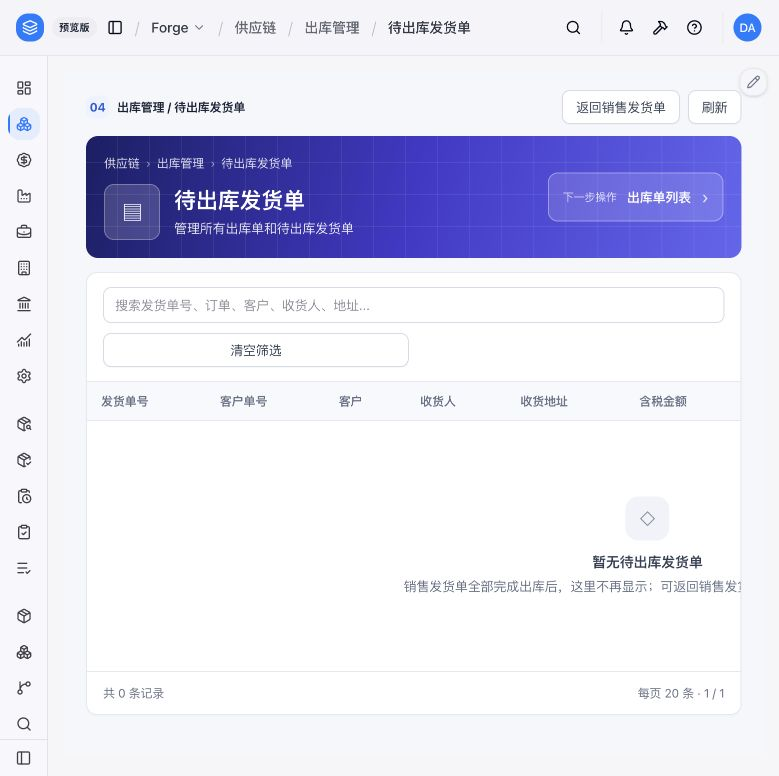
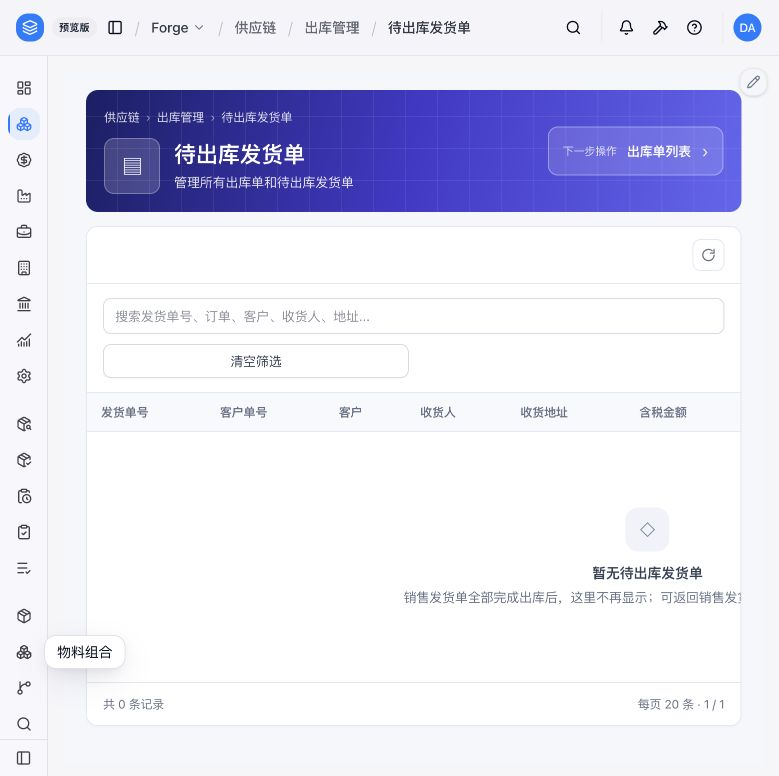
feat(forge): 待出库发货单 remove phase bar; record 库存总览 rebuild and 22-page smoke audit

diff --git a/apps/forge-objectstack/src/pages/pending-outbound-shipments.page.ts b/apps/forge-objectstack/src/pages/pending-outbound-shipments.page.ts
@@ -19,7 +19,7 @@ function App(){
   async function invoke(d){setBusy(true);try{await request('/actions/forge_sales_shipment/sales_shipment_create_outbound/'+d.row.id,{method:'POST',body:JSON.stringify({params:{code:d.code.trim(),warehouse_id:d.warehouse_id,outbound_on:d.date,quantity:Number(d.quantity),customer_pickup:!!d.customer_pickup,remarks:d.remarks||''}})});setDialog(null);setToast('销售出库单已创建');await load()}catch(e){setDialog(x=>x?({...x,error:String(e.message||e)}):x)}finally{setBusy(false)}}
   function confirm(){const d=dialog;if(!d)return;if(d.step!=='confirm')return setDialog({...d,step:'confirm',error:''});if(!d.warehouse_id||!d.code.trim()||!d.date||!(Number(d.quantity)>0))return setDialog({...d,error:'请填写出库单号、出库仓库、出库日期和数量'});return invoke(d)}
   if(state.loading)return <div className="forge-product forge-pending-outbound"><style>{css}</style><ForgeLoading label="加载待出库发货单"/></div>;
-  return <div className="forge-product forge-pending-outbound"><style>{css}</style><div className="fp-shell"><div className="fp-list-context"><div className="fp-phase"><span className="fp-phase-index">04</span><strong>出库管理 / 待出库发货单</strong></div><div className="fp-toolbar"><button className="fp-button" onClick={load}>刷新</button></div></div><ForgeHero section="供应链 / 出库管理 / 待出库发货单" title="待出库发货单" description="管理所有出库单和待出库发货单" icon="▤" tone="indigo" art="flow" next={{label:"出库单列表",href:forgeBase+'/page/page_sales_outbound_list',title:"下一步操作 · 出库单列表"}}/>{state.error&&<ForgeNotice tone="error" onClose={()=>setState(s=>({...s,error:''}))}>{state.error}</ForgeNotice>}<section className="fp-card"><div className="fp-filterbar"><div className="fp-search"><input className="fp-input" aria-label="搜索待出库发货单" placeholder="搜索发货单号、订单、客户、收货人、地址..." value={query} onChange={e=>setQuery(e.target.value)}/></div><button className="fp-button" onClick={()=>setQuery('')}>清空筛选</button></div><div className="fp-table-wrap"><table className="fp-table"><thead><tr><th>发货单号</th><th>客户单号</th><th>客户</th><th>收货人</th><th>收货地址</th><th>含税金额</th><th>出库进度</th><th>状态</th><th>日期</th><th>负责人</th><th>操作</th></tr></thead><tbody>{rows.map(s=>{const line=lineOf(s.id),o=order(line?.order_id),outs=outbounds(s.id),remain=Math.max(0,Number(s.total_quantity||0)-Number(s.outbound_quantity||0));return <tr key={s.id}><td><button className="fp-link-button" onClick={()=>window.location.href=forgeBase+'/forge_sales_shipment/record/'+s.id}>{s.code}</button><div className="fp-secondary">{o?.code||'—'}</div></td><td>{o?.customer_po_number||'—'}</td><td>{customer(s.customer_id)}</td><td>{s.recipient||contact(s.contact_id)}</td><td>{s.delivery_address||'—'}</td><td className="fp-number">{money(s.total_amount)}</td><td>{progress(s)}</td><td><ForgeStatus value={s.status} label={s.status==='partially_outbounded'?'部分出库':'待发货'}/></td><td>{s.shipment_on||'—'}</td><td>{user(s.responsible_id)}</td><td><div className="fp-toolbar"><button className="fp-button small primary" disabled={remain<=0} onClick={()=>openOutbound(s)}>创建出库单</button><button className="fp-button small" onClick={()=>window.location.href=forgeBase+'/forge_sales_shipment/record/'+s.id}>查看</button></div></td></tr>})}{!rows.length&&<tr><td colSpan="11" className="fp-empty-cell"><ForgeEmpty title="暂无待出库发货单" description="销售发货单全部完成出库后，这里不再显示；可返回销售发货单创建新的待出库单据。"/></td></tr>}</tbody></table></div><div className="fp-pagination"><span>共 {rows.length} 条记录</span><span>每页 20 条 · 1 / 1</span></div></section></div>{dialog&&<ForgeDialog open title={dialog.step==='confirm'?'确认创建销售出库单':'创建出库单'} subtitle={dialog.row?.code+' · '+customer(dialog.row?.customer_id)} error={dialog.error} busy={busy} confirmLabel={dialog.step==='confirm'?'确认提交':'下一步'} onCancel={()=>setDialog(null)} onConfirm={confirm}>{dialog.step==='confirm'&&<div className="fp-dialog-impact">请确认发货单、仓库、数量和库存扣减影响无误；确认后将创建销售出库单并回写发货进度。</div>}{dialog.step!=='confirm'&&<><div className="fp-form-grid"><div className="fp-field"><label>出库单号 *</label><input className="fp-input" aria-label="出库单号" value={dialog.code} onChange={e=>setDialog({...dialog,code:e.target.value})}/></div><div className="fp-field"><label>出库仓库 *</label><ForgeSelect label="出库仓库" value={dialog.warehouse_id} onChange={v=>setDialog({...dialog,warehouse_id:v})} options={state.warehouses.map(w=>({value:w.id,label:w.code+' · '+w.name}))} placeholder="请选择仓库"/></div><div className="fp-field"><label>出库日期 *</label><ForgeDateInput className="fp-input" aria-label="出库日期" value={dialog.date} onChange={e=>setDialog({...dialog,date:e.target.value})}/></div><div className="fp-field"><label>出库数量 *</label><input className="fp-input" aria-label="出库数量" type="number" value={dialog.quantity} onChange={e=>setDialog({...dialog,quantity:e.target.value})}/></div></div><label className="fp-checkbox"><input type="checkbox" checked={dialog.customer_pickup} onChange={e=>setDialog({...dialog,customer_pickup:e.target.checked})}/>客户自取</label><div className="fp-field"><label>备注</label><textarea className="fp-textarea" aria-label="出库备注" value={dialog.remarks} onChange={e=>setDialog({...dialog,remarks:e.target.value})}/></div><div className="inventory-note">当前动作会读取所选仓库的真实库存余额。库存不足、发货单状态变化或数量超过剩余待出库数量时，系统会阻止创建出库单。</div></>}</ForgeDialog>}{toast&&<div className="fp-toast" role="status">{toast}</div>}</div>}
+  return <div className="forge-product forge-pending-outbound"><style>{css}</style><div className="fp-shell"><ForgeHero section="供应链 / 出库管理 / 待出库发货单" title="待出库发货单" description="管理所有出库单和待出库发货单" icon="▤" tone="indigo" art="flow" next={{label:"出库单列表",href:forgeBase+'/page/page_sales_outbound_list',title:"下一步操作 · 出库单列表"}}/>{state.error&&<ForgeNotice tone="error" onClose={()=>setState(s=>({...s,error:''}))}>{state.error}</ForgeNotice>}<section className="fp-card"><div className="fp-card-toolbar"><span className="fp-grow"/><button className="fp-icon-button" aria-label="刷新" title="刷新" onClick={load}><svg viewBox="0 0 24 24" fill="none" stroke="currentColor" strokeWidth="2" strokeLinecap="round" strokeLinejoin="round"><path d="M21 12a9 9 0 1 1-3-6.7"/><path d="M21 3v6h-6"/></svg></button></div><div className="fp-filterbar"><div className="fp-search"><input className="fp-input" aria-label="搜索待出库发货单" placeholder="搜索发货单号、订单、客户、收货人、地址..." value={query} onChange={e=>setQuery(e.target.value)}/></div><button className="fp-button" onClick={()=>setQuery('')}>清空筛选</button></div><div className="fp-table-wrap"><table className="fp-table"><thead><tr><th>发货单号</th><th>客户单号</th><th>客户</th><th>收货人</th><th>收货地址</th><th>含税金额</th><th>出库进度</th><th>状态</th><th>日期</th><th>负责人</th><th>操作</th></tr></thead><tbody>{rows.map(s=>{const line=lineOf(s.id),o=order(line?.order_id),outs=outbounds(s.id),remain=Math.max(0,Number(s.total_quantity||0)-Number(s.outbound_quantity||0));return <tr key={s.id}><td><button className="fp-link-button" onClick={()=>window.location.href=forgeBase+'/forge_sales_shipment/record/'+s.id}>{s.code}</button><div className="fp-secondary">{o?.code||'—'}</div></td><td>{o?.customer_po_number||'—'}</td><td>{customer(s.customer_id)}</td><td>{s.recipient||contact(s.contact_id)}</td><td>{s.delivery_address||'—'}</td><td className="fp-number">{money(s.total_amount)}</td><td>{progress(s)}</td><td><ForgeStatus value={s.status} label={s.status==='partially_outbounded'?'部分出库':'待发货'}/></td><td>{s.shipment_on||'—'}</td><td>{user(s.responsible_id)}</td><td><div className="fp-toolbar"><button className="fp-button small primary" disabled={remain<=0} onClick={()=>openOutbound(s)}>创建出库单</button><button className="fp-button small" onClick={()=>window.location.href=forgeBase+'/forge_sales_shipment/record/'+s.id}>查看</button></div></td></tr>})}{!rows.length&&<tr><td colSpan="11" className="fp-empty-cell"><ForgeEmpty title="暂无待出库发货单" description="销售发货单全部完成出库后，这里不再显示；可返回销售发货单创建新的待出库单据。"/></td></tr>}</tbody></table></div><div className="fp-pagination"><span>共 {rows.length} 条记录</span><span>每页 20 条 · 1 / 1</span></div></section></div>{dialog&&<ForgeDialog open title={dialog.step==='confirm'?'确认创建销售出库单':'创建出库单'} subtitle={dialog.row?.code+' · '+customer(dialog.row?.customer_id)} error={dialog.error} busy={busy} confirmLabel={dialog.step==='confirm'?'确认提交':'下一步'} onCancel={()=>setDialog(null)} onConfirm={confirm}>{dialog.step==='confirm'&&<div className="fp-dialog-impact">请确认发货单、仓库、数量和库存扣减影响无误；确认后将创建销售出库单并回写发货进度。</div>}{dialog.step!=='confirm'&&<><div className="fp-form-grid"><div className="fp-field"><label>出库单号 *</label><input className="fp-input" aria-label="出库单号" value={dialog.code} onChange={e=>setDialog({...dialog,code:e.target.value})}/></div><div className="fp-field"><label>出库仓库 *</label><ForgeSelect label="出库仓库" value={dialog.warehouse_id} onChange={v=>setDialog({...dialog,warehouse_id:v})} options={state.warehouses.map(w=>({value:w.id,label:w.code+' · '+w.name}))} placeholder="请选择仓库"/></div><div className="fp-field"><label>出库日期 *</label><ForgeDateInput className="fp-input" aria-label="出库日期" value={dialog.date} onChange={e=>setDialog({...dialog,date:e.target.value})}/></div><div className="fp-field"><label>出库数量 *</label><input className="fp-input" aria-label="出库数量" type="number" value={dialog.quantity} onChange={e=>setDialog({...dialog,quantity:e.target.value})}/></div></div><label className="fp-checkbox"><input type="checkbox" checked={dialog.customer_pickup} onChange={e=>setDialog({...dialog,customer_pickup:e.target.checked})}/>客户自取</label><div className="fp-field"><label>备注</label><textarea className="fp-textarea" aria-label="出库备注" value={dialog.remarks} onChange={e=>setDialog({...dialog,remarks:e.target.value})}/></div><div className="inventory-note">当前动作会读取所选仓库的真实库存余额。库存不足、发货单状态变化或数量超过剩余待出库数量时，系统会阻止创建出库单。</div></>}</ForgeDialog>}{toast&&<div className="fp-toast" role="status">{toast}</div>}</div>}
 export default App;
 ${forgeProductUiRuntime}`;
 

diff --git a/docs/evidence/risemap-supply-chain-data-readiness-20260917.md b/docs/evidence/risemap-supply-chain-data-readiness-20260917.md
@@ -631,3 +631,28 @@ RISEMAP 检验规则页实测到明确的批量动作：工具条有「批量启
 | SN码管理 | #/供应商序列号/产品名称/入库单号/批次号/供应商/出库状态/出库单号/操作，卡片首行右侧刷新图标 | 列一致；刷新是文字按钮 | **已改**：刷新改为卡片首行右侧图标按钮 |
 
 改后截图覆盖：`ledger-forge.png`、`ncr-forge.png`、`sn-forge.png`。
+
+## 第二十二轮：库存总览改版与全量复核（收口）
+
+### 库存总览
+
+| 项 | RISEMAP | 改前 Forge | 处理 |
+| --- | --- | --- | --- |
+| 顶部工具条 | 该页顶部只有页签（总览/物料库存/在途库存/分类汇总/仓库视图），没有导出/刷新文字按钮 | 页签上方有一排「导出 / 刷新」文字按钮 | **已改**：删除顶部动作行，导出与刷新图标移入各列表卡片首行 |
+| 总览面板 | 各仓库含税成本总价 + 分类库存数量 + 库存动态 | 只有 各仓库含税成本总价 + 库存动态 | **已补**：新增「分类库存数量」面板，按物料分类汇总在库数量 |
+
+改版过程中一度把该页写坏（面板标题被替换成了 `NaN`），已用 `git checkout` 回滚该文件后重做，并在重做脚本里加了「不得出现 NaN / 面板标题必须存在 / 动作行必须消失」的写入后断言。浏览器复核：三块面板标题为「各仓库含税成本总价 | 分类库存数量 | 库存动态」。
+
+### 待出库发货单收尾
+
+删除页面上方的阶段条（「04 出库管理 / 待出库发货单」），刷新改为卡片首行右侧图标按钮；现在这页与该页 RISEMAP 一致：hero 磁贴 + 卡片首行只有刷新图标。
+
+### 全量冒烟复核（22 页）
+
+对库存管理 10 页、出库管理 7 页、到货检验 5 页逐页打开并检查标题与错误标识：
+
+```
+库存总览 ok / 不合格处理 ok / 处置执行中心 ok / 库存流水 ok / 库存锁定 ok / 库存盘点 ok / 调拨与借出 ok / 库存预警 ok / 报损单 ok / SN码管理 ok / 出库单列表 ok / 生产出库 ok / 其他出库 ok / 销售直接出库 ok / 待出库发货单 ok / 采购退换货出库 ok / 出库明细 ok / 到货通知 ok / 到货登记 ok / 待检验库存 ok / 检验单 ok / 检验规则 ok
+```
+
+22 页标题正确、无「请求失败/加载失败/undefined/NaN」等异常文案；`pnpm typecheck`、`pnpm validate`、`pnpm build` 全部通过（含 211 条菜单路由唯一性静态检查）。
